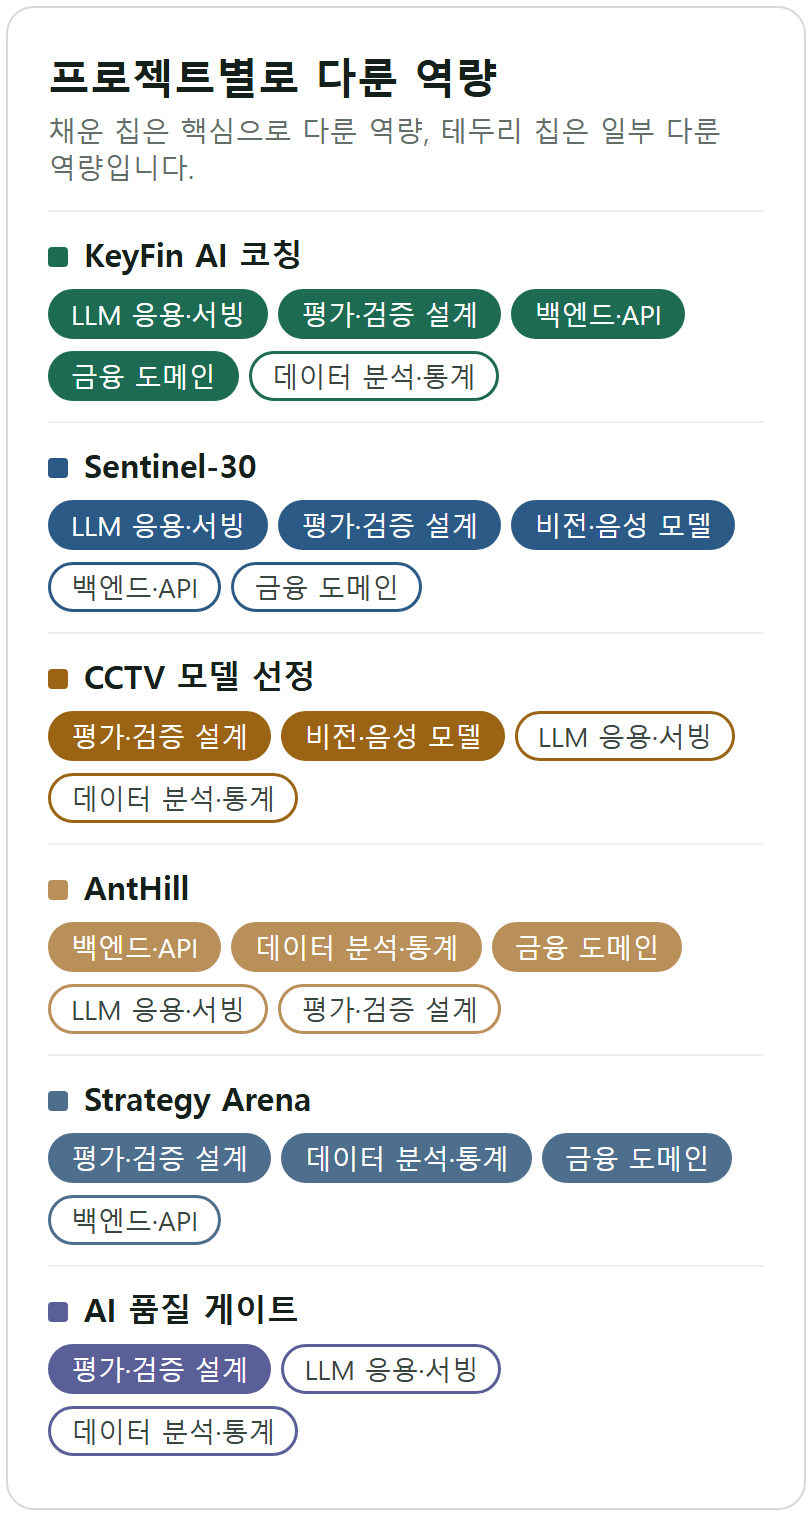
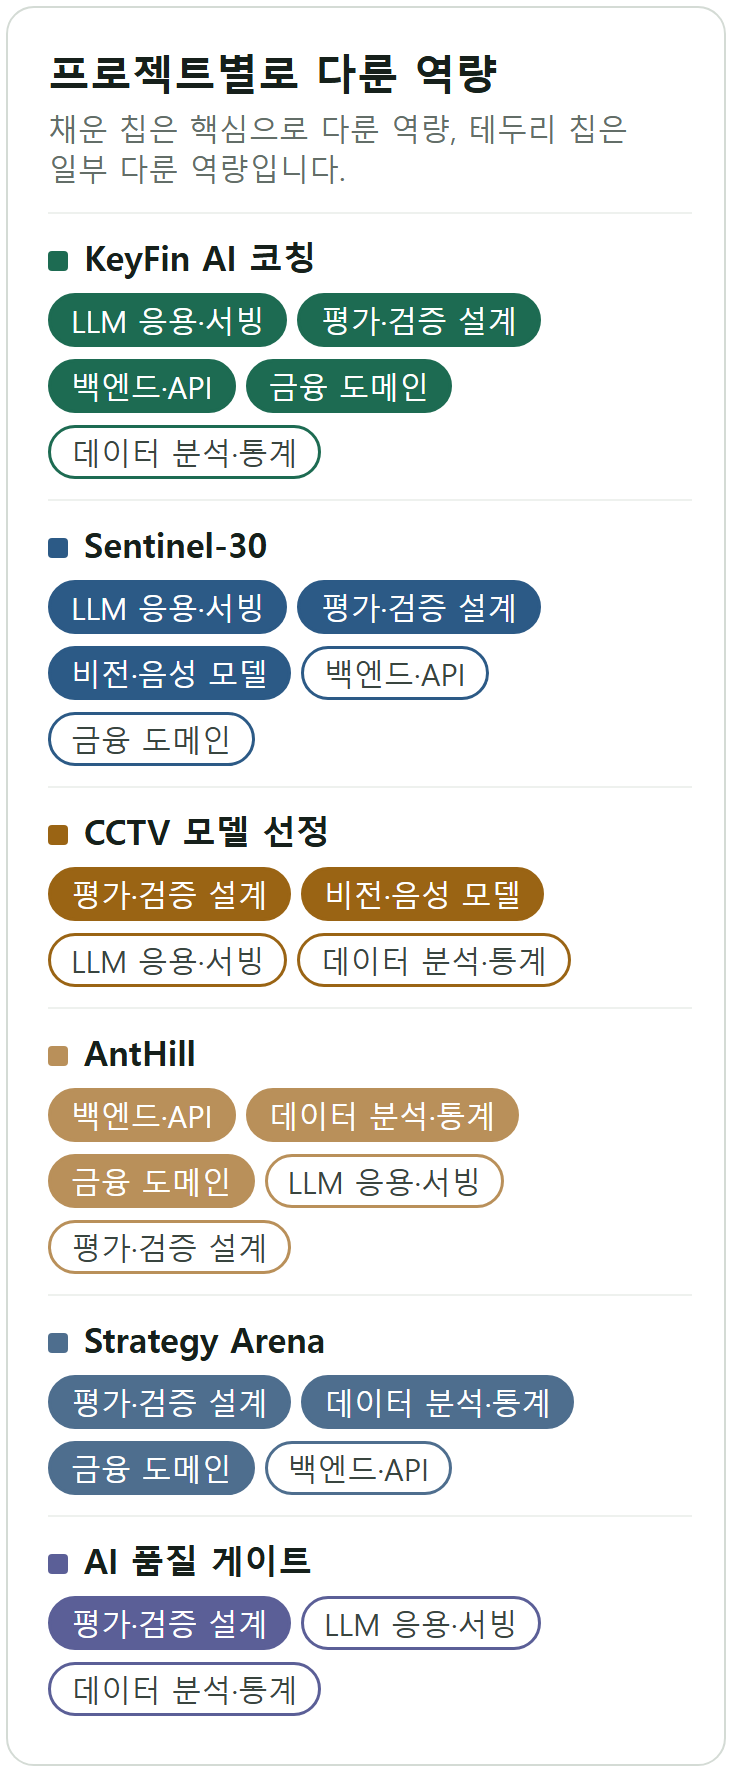
포트폴리오: 휴대폰용 카드 폭을 줄이고 글씨를 키움
GitHub 휴대폰 화면의 본문 폭(309px)에서 설명 글씨가 11px대로 작았다.
카드 폭 360px, 본문 17px·수치 설명 16px로 키우고, 수치는 위·설명은 아래로 쌓아 어색한 줄바꿈을 없앴다.

Changed region(s): [[0.0601, 0.031, 0.9016, 0.9611], [0.0301, 0.9921, 0.9617, 1.0], [0.9918, 0.031, 1.0, 0.9611]]

diff --git a/src/cards.py b/src/cards.py
@@ -1,5 +1,5 @@
 """포트폴리오 README용 프로젝트 카드와 역량 지도. 880 CSS px로 그려 2배 렌더한다(GitHub 본문 1:1).
-휴대폰용(m0N, skill_map_m)은 400 CSS px 세로형으로 따로 그린다. README는 <picture>로 폭 600px 이하에서 이쪽을 보여 준다.
+휴대폰용(m0N, skill_map_m)은 360 CSS px 세로형으로 따로 그린다. README는 <picture>로 폭 600px 이하에서 이쪽을 보여 준다.
 
 실행: python cards.py → out/*.html, 이어서 sh render.sh → out/*.png (assets/cards/에 복사)
 """
@@ -13,7 +13,7 @@ C = dict(ink="#16201B", ink2="#39453F", muted="#636E68", rule="#D4DBD5", track="
 CSS = f"""*{{box-sizing:border-box}} html,body{{margin:0;background:#fff}}
 body{{font-family:"Malgun Gothic","Apple SD Gothic Neo",sans-serif;color:{C['ink']};-webkit-font-smoothing:antialiased;word-break:keep-all}}
 .card{{width:880px;margin:14px;padding:26px 30px 24px;border:1px solid {C['rule']};border-radius:14px;background:#fff;position:relative;overflow:hidden}}
-.card.m{{width:400px;padding:20px 20px 16px 30px}}
+.card.m{{width:360px;padding:18px 16px 14px 26px}}
 """
 
 
@@ -62,15 +62,15 @@ def skill_map(name, projects, skills, marks):
 def project_card_m(name, no, title, line, role, period, kpis, tags, color, soft):
     """휴대폰용 세로 카드: 핵심 수치를 한 줄씩 쌓는다."""
     k = "".join(
-        f'<div style="display:flex;align-items:baseline;gap:12px;background:{soft};border-radius:9px;padding:9px 12px;margin-bottom:7px">'
-        f'<div style="font-size:21px;font-weight:700;color:{color};white-space:nowrap;min-width:92px">{v}</div>'
-        f'<div style="font-size:15px;color:{C["ink2"]};line-height:1.4">{t}</div></div>' for v, t in kpis)
-    tg = "".join(f'<span style="display:inline-block;font-size:14px;color:{C["ink2"]};border:1px solid {C["rule"]};border-radius:999px;padding:1px 9px;margin:0 5px 5px 0">{t}</span>' for t in tags)
+        f'<div style="background:{soft};border-radius:9px;padding:9px 13px 10px;margin-bottom:7px">'
+        f'<div style="font-size:23px;font-weight:700;color:{color};line-height:1.2">{v}</div>'
+        f'<div style="font-size:16px;color:{C["ink2"]};line-height:1.4;margin-top:3px">{t}</div></div>' for v, t in kpis)
+    tg = "".join(f'<span style="display:inline-block;font-size:15px;color:{C["ink2"]};border:1px solid {C["rule"]};border-radius:999px;padding:1px 9px;margin:0 5px 5px 0">{t}</span>' for t in tags)
     body = (f'<div class="card m"><div style="position:absolute;left:0;top:0;bottom:0;width:8px;background:{color}"></div>'
             f'<div style="font-size:14px;font-weight:700;color:{color}">{no}</div>'
             f'<div style="font-size:22px;font-weight:700;line-height:1.3;margin-top:2px">{title}</div>'
-            f'<div style="font-size:16px;color:{C["ink2"]};margin:8px 0 6px;line-height:1.5">{line}</div>'
-            f'<div style="font-size:14px;color:{C["muted"]};margin-bottom:12px">{role} · {period}</div>'
+            f'<div style="font-size:17px;color:{C["ink2"]};margin:8px 0 6px;line-height:1.5">{line}</div>'
+            f'<div style="font-size:15px;color:{C["muted"]};margin-bottom:12px">{role} · <span style="white-space:nowrap">{period}</span></div>'
             f'{k}<div style="margin-top:9px">{tg}</div></div>')
     page(name, body)
 
@@ -86,11 +86,11 @@ def skill_map_m(name, projects, skills, marks):
                     label = re.sub(r"<br>(?!·)", " ", sk).replace("<br>", "")
                     style = (f"background:{color};color:#fff;border:1.5px solid {color}" if lvl == 2 else
                              f"background:#fff;color:{C['ink2']};border:1.5px solid {color}")
-                    chips += f'<span style="display:inline-block;font-size:13.5px;border-radius:999px;padding:2px 10px;margin:0 5px 6px 0;{style}">{label}</span>'
-        rows += (f'<div style="padding:10px 0 4px;border-top:1px solid {C["track"]}"><div style="font-size:16px;font-weight:700;margin-bottom:7px">'
+                    chips += f'<span style="display:inline-block;font-size:15px;border-radius:999px;padding:2px 10px;margin:0 5px 6px 0;{style}">{label}</span>'
+        rows += (f'<div style="padding:10px 0 4px;border-top:1px solid {C["track"]}"><div style="font-size:17px;font-weight:700;margin-bottom:7px">'
                  f'<span style="display:inline-block;width:10px;height:10px;border-radius:2px;background:{color};margin-right:8px"></span>{p}</div>{chips}</div>')
     body = (f'<div class="card m" style="padding-left:20px"><div style="font-size:21px;font-weight:700;margin-bottom:4px">프로젝트별로 다룬 역량</div>'
-            f'<div style="font-size:14px;color:{C["muted"]};margin-bottom:12px">채운 칩은 핵심으로 다룬 역량, 테두리 칩은 일부 다룬 역량입니다.</div>{rows}</div>')
+            f'<div style="font-size:15px;color:{C["muted"]};margin-bottom:12px">채운 칩은 핵심으로 다룬 역량, 테두리 칩은 일부 다룬 역량입니다.</div>{rows}</div>')
     page(name, body)
 
 
@@ -119,7 +119,7 @@ CARDS = [
      ["PyTorch", "SOLIDER", "CLIP ViT-L/14", "ReID", "지식 증류", "승격 게이트"], C["warn"], C["warn_soft"]),
     ("p04", "04", "AntHill 주식 판단 트레이닝",
      "AI가 정답을 알려주지 않는 투자 판단 훈련 서비스. 규칙 엔진이 방향을 정하고 LLM은 근거 문장만 씁니다.",
-     "개인 중심 · 커밋 156건 중 140건 작성(7월 기준)", "2026.05 ~ 07",
+     "개인 중심 · 커밋 156건 중 140건 작성<span style='white-space:nowrap'>(7월 기준)</span>", "2026.05 ~ 07",
      [("3계층", "규칙이 방향, LLM이 설명, 실패하면 규칙 문장"), ("87.2%", "직접 라벨링 172건 감성 정확도 (보정 표본 포함)"), ("14,473개", "적재한 국내·해외 종목")],
      ["Django 5.2", "DRF", "SimpleJWT", "OpenRouter", "Canvas 2D", "Playwright"], C["tan"], "#F1E6D6"),
     ("p05", "05", "Strategy Arena 백테스트 검증",
